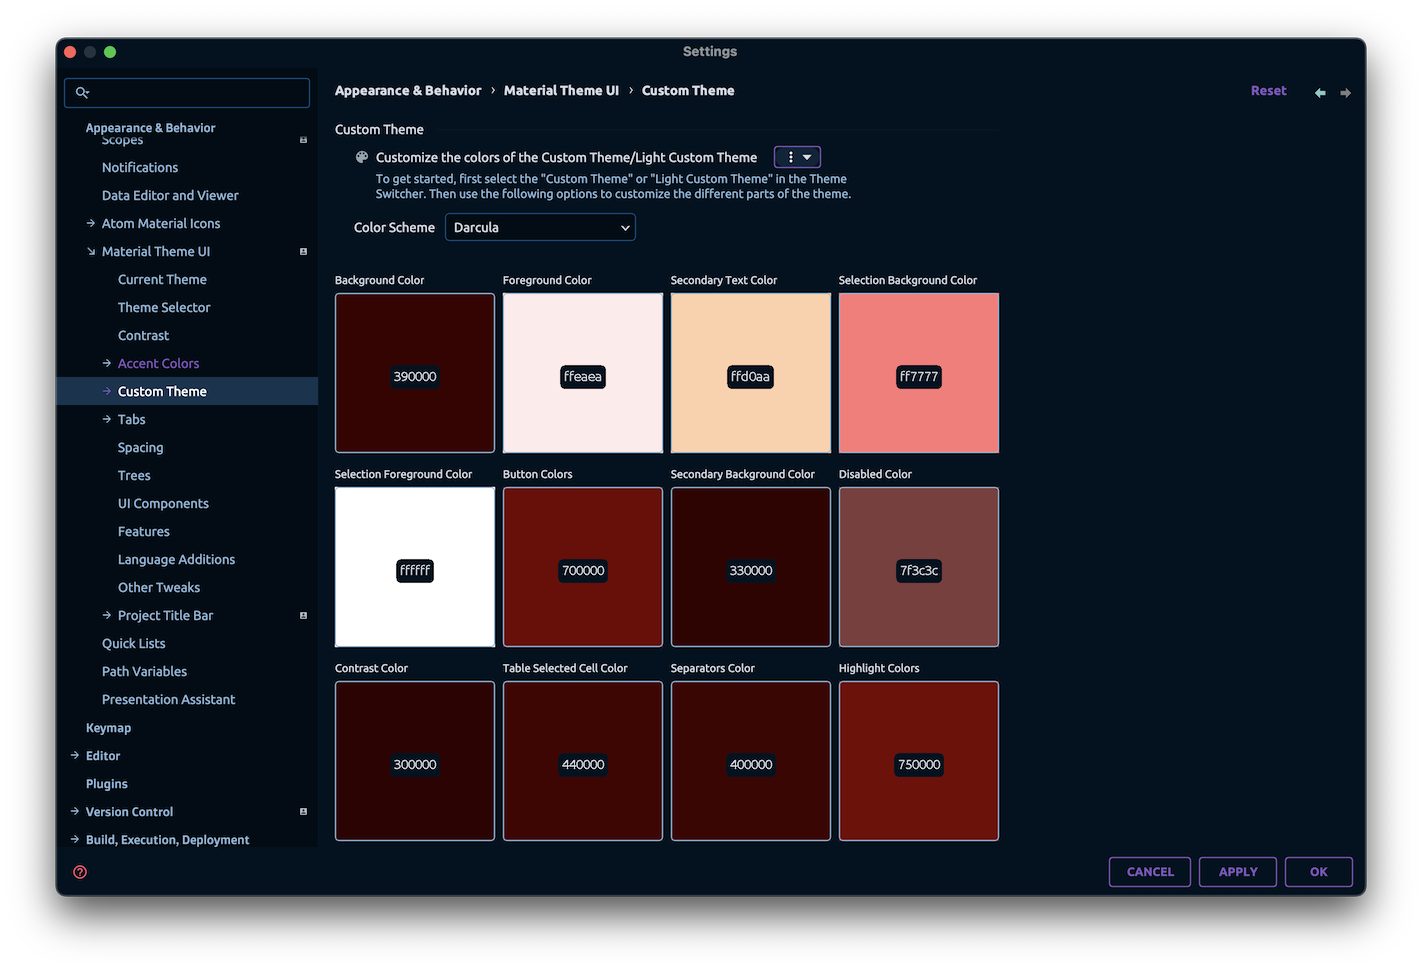
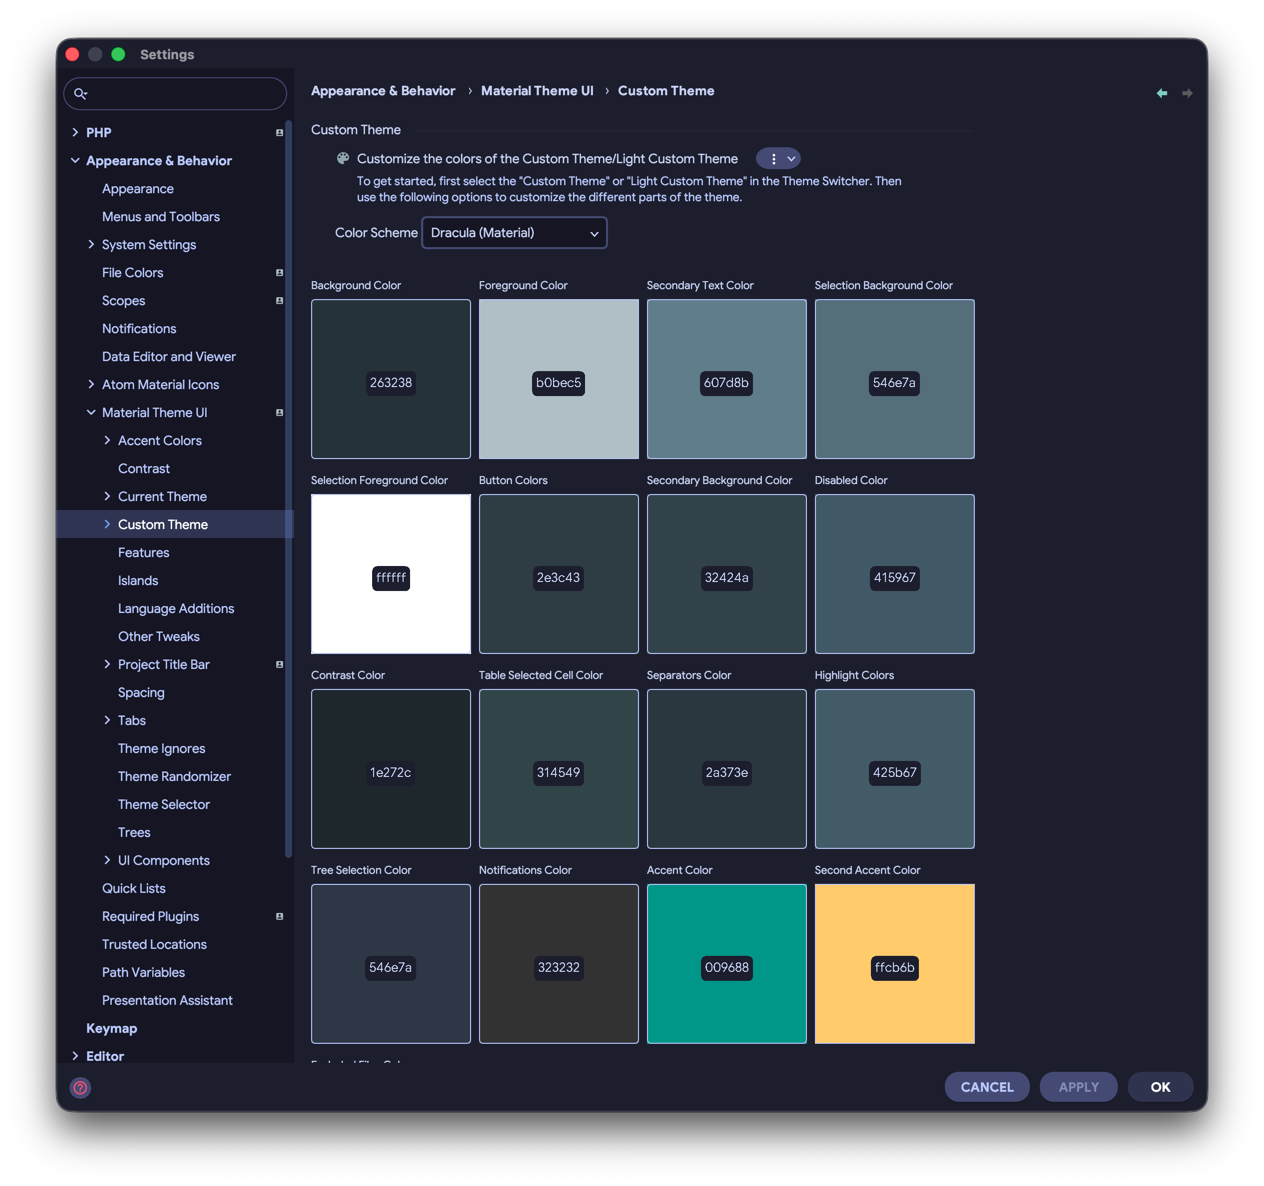
Update documentation for "Accent Mode" and "Rounded Tabs" configuration; revise settings visuals and restructure navigation links.

diff --git a/docs/configuration/settings.md b/docs/configuration/settings.md
@@ -51,7 +51,7 @@ There are many ways to invoke the *Theme Switcher*:
 - From the `Quick Switch` panel <kbd>(Ctrl + \`)</kbd> (Windows: <kbd>Ctrl + ~</kbd>)`
 - From the `Status Bar Widget`
 
-{% include figure.html content="/screens/quickswitch.png" caption="Quick Switch" %}
+{% include figure.html content="/screens/settingsv3/quickswitch.png" caption="Quick Switch" %}
 
 Alternatively, you can switch themes using the _Theme Selector_ found in `Settings → Appearance → Material Theme UI → Theme Selector`.
 
@@ -260,9 +260,15 @@ Here you can preview the colors of the current theme in a nice color-coded grid.
 
 **[Tabs](/docs/configuration/tabs)**:
 
+- *Enable Customization*: Whether to use the Material Theme's tabs implementation or the native one.
 - *Tabs Height*: Customize the height of the tabs (between `25` and `60` pixels).
 - *Active Tab Highlight Color*![premium](/img/icons/premium.png): Customize the active tab's indicator color.
 - *Thickness*![premium](/img/icons/premium.png): Set the indicator thickness for the active tab.
+- *Rounded Tabs*: Use **Rounded Tabs** instead of the classic Material Design tabs.
+  - *Rounded Tabs Opacity*![premium](/img/icons/premium.png): Customize the opacity of the background color.
+  - *Rounded Tabs Border Size*![premium](/img/icons/premium.png): Customize the border size of the selected tab.
+  - *Rounded Tabs Arc*![premium](/img/icons/premium.png): Customize the arc radius of the selected tab.
+  - *Rounded Tabs Padding*![premium](/img/icons/premium.png): Customize the internal padding of the selected tab.
 - *Uppercase Tabs*![premium](/img/icons/premium.png): Set the tabs' text to uppercase.
 - *Bold Active Tab*![premium](/img/icons/premium.png): Make the active tab bold.
 - *Custom Tab Font*![premium](/img/icons/premium.png): Control the font and size of the tabs.
@@ -270,7 +276,7 @@ Here you can preview the colors of the current theme in a nice color-coded grid.
 - *Tabs Shadows*![premium](/img/icons/premium.png): Add a subtle shadow under the tabs.
 - *Animated Tabs*: Animate the tab indicator when switching tabs.
 - *Tab Separators*: Add thin borders between tabs.
-
+- *Customize Active Tab Color*: Allows overriding the active tab highlight color from the Color Scheme.
 
 **[Spacing](/docs/configuration/spacing)**:
 
@@ -294,16 +300,6 @@ Here you can preview the colors of the current theme in a nice color-coded grid.
 - *Outer Margin*![premium](/img/icons/premium.png): Customize the spacing between the islands.
 - *Islands Gap*![premium](/img/icons/premium.png): Set the gap between the islands and the window borders (only when the tool windows are hidden).
 - *Tool Window Overlay Opacity*: Customize the opacity applied to the tool windows when the IDE is inactive.
-
-**[Theme Randomizer](/docs/configuration/theme-randomizer)**:
-
-- *Enabled*: Enable the theme randomizer.
-- *Theme Change Interval*: Set the interval between theme changes.
-- *Theme List*: Check or uncheck themes to be included in the randomization.
-
-**[Theme Ignores](/docs/configuration/theme-ignores)**:
-
-This section allows you to add UI properties to be ignored from the _Native Theme_, to instead use the ones defined by the plugin.
 
 **[Trees](/docs/configuration/trees)**:
 
@@ -336,17 +332,23 @@ This section allows you to add UI properties to be ignored from the _Native Them
 - *Material Design Style*: Select the style of the components.
   - *Legacy Material Design*: Use the old Material Design style (sharp corners, borderless input fields…).
   - *Material Theme*: Use the Material Theme style (rounded corners, bordered input fields…).
-  - *Material 3*: Use the Material 3 style (rounded buttons, input fields…).
+  - *Material 3*: Use the Material 3 style (rounded buttons and search fields, Google Sans font...).
 - *Borderless Mode*![premium](/img/icons/premium.png): Remove most borders and separators.
 - *Uppercase buttons*: Set the button text to uppercase.
 - *Outlined buttons*![premium](/img/icons/premium.png): Use outline buttons instead of full buttons.
+- *Custom Button Radius*![premium](/img/icons/premium.png): Override the default button radius.
 - *Action Buttons Radius*![premium](/img/icons/premium.png): Customize the radius of the action buttons.
 - *Round Notifications*![premium](/img/icons/premium.png): Make notifications rounder.
+- *Search Everywhere Customization*![premium](/img/icons/premium.png): Customize the look of the Search Everywhere popup.
+  - *Custom Input Padding*![premium](/img/icons/premium.png): Increase or decrease the size of the Search Everywhere input field.
+  - *Font Size Delta*![premium](/img/icons/premium.png): Increase or decrease the size of the font.
 - *Inverted Completion Selection Color*: Toggle between the theme's selection color and a high-contrast color for the active item in the *Autocomplete* popup.
-- *Accent Scrollbars*: Set the color of the scrollbars to the accent color (requires restart).
-- *Transparent Scrollbars*: Enable/Disable transparency in scrollbars (requires restart).
+- *Scrollbars*:
+  - *Accent Scrollbars*: Set the color of the scrollbars to the accent color (requires restart).
+  - *Transparent Scrollbars*: Enable/Disable transparency in scrollbars (requires restart).
 - *Extra Shadows*![premium](/img/icons/premium.png): Add a subtle shadow around notifications and some popups.
 - *Material Circular Loader Icon*: Replace the loading icon with a Material Design circular loader icon (available only in conjunction with the [Atom Material Icons](https://plugins.jetbrains.com/plugin/10044-atom-material-icons) plugin).
+- *Use original Tool Window Hover Buttons*: Replace the look of the hover indicator on the Tool Windows with the native one.
 
 **[Features](/docs/configuration/features)**:
 
@@ -354,14 +356,26 @@ This section allows you to add UI properties to be ignored from the _Native Them
 - *Centered Editor*: Center the code in open editors, similar to distraction-free mode.
 - *Floating Action Button*: Add a floating action button to the bottom right corner of the screen.
 - *Show Overlays*: Display an overlay when modals are open.
-- *Add more popups under overlays*: When enabled, triggers overlays for additional popups such as right-click menus and dropdowns.
-- *Overlays Opacity*: Customize the opacity of the overlays.
+  - *Add more popups under overlays*: When enabled, triggers overlays for additional popups such as right-click menus and dropdowns.
+  - *Overlays Opacity*: Customize the opacity of the overlays.
 - *Material Wallpapers*![premium](/img/icons/premium.png): Add a custom wallpaper per theme for the empty frame window.
 - *Custom UI Font*![premium](/img/icons/premium.png): Set your own custom UI Font. Supplements the IDE's [_Custom Font_](https://www.jetbrains.com/help/idea/settings-appearance.html).
 - *Material File Status Colors*: Enable/Disable the [Material File Status Colors](/docs/configuration/file-status-colors).
 - *Custom Directories Style*![premium](/img/icons/premium.png): Customize the style of directories.
 - *Automatically reset color scheme*: Automatically reset the color scheme on theme activation (_only for bundled color schemes_).
 - *Use Editor Default Font*![premium](/img/icons/premium.png): Automatically update color schemes to use the default font of your choice.
+
+**[Theme Randomizer](/docs/configuration/theme-randomizer)**:
+
+- *Enabled*: Enable the theme randomizer.
+- *Theme Change Interval*: Set the interval between theme changes.
+- *Theme List*: Check or uncheck themes to be included in the randomization.
+
+**[Theme Ignores](/docs/configuration/theme-ignores)**:
+
+This section allows you to add specific UI Properties to ignore when loading custom themes, so that they will be replaced by the plugin's default values.
+
+This is particularly useful in the case when external themes don't define properties, so that you don't end up with the default `Darcula` values.
 
 **[Language Additions](/docs/configuration/language-additions)**:
 
@@ -383,16 +397,26 @@ This section allows you to add UI properties to be ignored from the _Native Them
 - *Colorize Left Tool Window*![premium](/img/icons/premium.png): Colorize the left tool window (only for the New UI).
 - *Colorize Right Tool Window*![premium](/img/icons/premium.png): Colorize the right tool window (only for the New UI).
 - *Colorize Status Bar*![premium](/img/icons/premium.png): Colorize the status bar (only for the New UI).
+- *Gradient Radius*![premium](/img/icons/premium.png): Customize the Project Widget Gradient radius on the title bar.
 - *Project Title Bar*![premium](/img/icons/premium.png): Add a colored stripe on the top of each project window for easier differentiation.
 - *Show Project Icon*![premium](/img/icons/premium.png): Display the _project's custom icon_ on the stripe.
 - *Show Project Title*![premium](/img/icons/premium.png): Displays the _project title_ on the stripe.
 - *Customize Text*![premium](/img/icons/premium.png): Customize the displayed text.
     - You can use the keywords `{project}`, `{module}`, `{fullPath}`, `{path}` and `{file}` to refer respectively to the current project, module, full path, local path and/or current file.
+- *Project Title Frame Settings*:
+  - *Project Frame Width*: Set the width of the project frame (use 0 for the whole width).
+  - *Project Frame Height*: Set the height of the project frame.
+  - *Project Frame Font Family*: Customize the font family of the project frame text.
+  - *Project Frame Font Size*: Customize the font size of the project frame text.
 
 **[Other Tweaks](/docs/configuration/other-tweaks)**:
 
 - *Show What's New on each update*: Whether to display the [What's New](/docs/what-s-new) page after each update.
 - *Show Wizard on Welcome Screen*: Add or remove the Wizard option in the Welcome Screen.
+
+**UI DSL Showcase**:
+
+This settings page simply displays a list of UI components to preview how they will look like in the IDE.
 
 -----
 
@@ -403,7 +427,7 @@ Simply press `Shift-Shift` and type `Material Theme` to get the list of availabl
 
 Same goes for the `Command Panel` (<kbd>Ctrl-Shift-A/Cmd-Shift-A</kbd>).
 
-{% include figure.html content="/screens/cmdpanel.png" caption="Command Panel" %}
+{% include figure.html content="/screens/settingsv3/cmdPanel.png" caption="Command Panel" %}
 
 You can also use the `Keymap Editor` to assign your own custom shortcuts to these toggles.
 
@@ -437,9 +461,9 @@ This feature is only available for premium users.
 Aside from the bundled themes, you can also set up your own Material Theme.
 
 You can do so by selecting `Custom Theme` in the theme list,
-then customize the theme colors in the settings page at `Settings → Appearance → Material Custom Theme Settings`.
+then customize the theme colors in the settings page at `Settings → Appearance → Material Theme -> Custom Theme`.
 
-{% include figure.html content="/screens/customsettings.png" caption="Material Custom Theme Settings" %}
+{% include figure.html content="/screens/settingsv3/customTheme.png" caption="Material Custom Theme Settings" %}
 
 Once you set these colors, select the `Custom Theme` in the _Material Theme Chooser_ and see your colors take effect.
 

diff --git a/docs/configuration/accents.md b/docs/configuration/accents.md
@@ -10,8 +10,8 @@ previous:
   url: '/docs/configuration/contrast'
   title: Contrast Settings
 next:
-  url: '/docs/configuration/color-scheme-additions'
-  title: Language Additions
+  url: '/docs/configuration/accent-mode'
+  title: Accent Mode
 
 gallery:
   - images:
@@ -127,6 +127,10 @@ Here is the list of predefined colors:
 {% for color in site.data.accentColors %}
 {% include color2.html color=color %}
 {% endfor %}
+
+### Second Accent Color
+
+Themes can define a second accent color. This color will be used when the [Accent Mode](/docs/configuration/accent-mode) is enabled, providing a different accent color when the primary accent color is the more prominent one.
 
 ### Custom accent color
 
